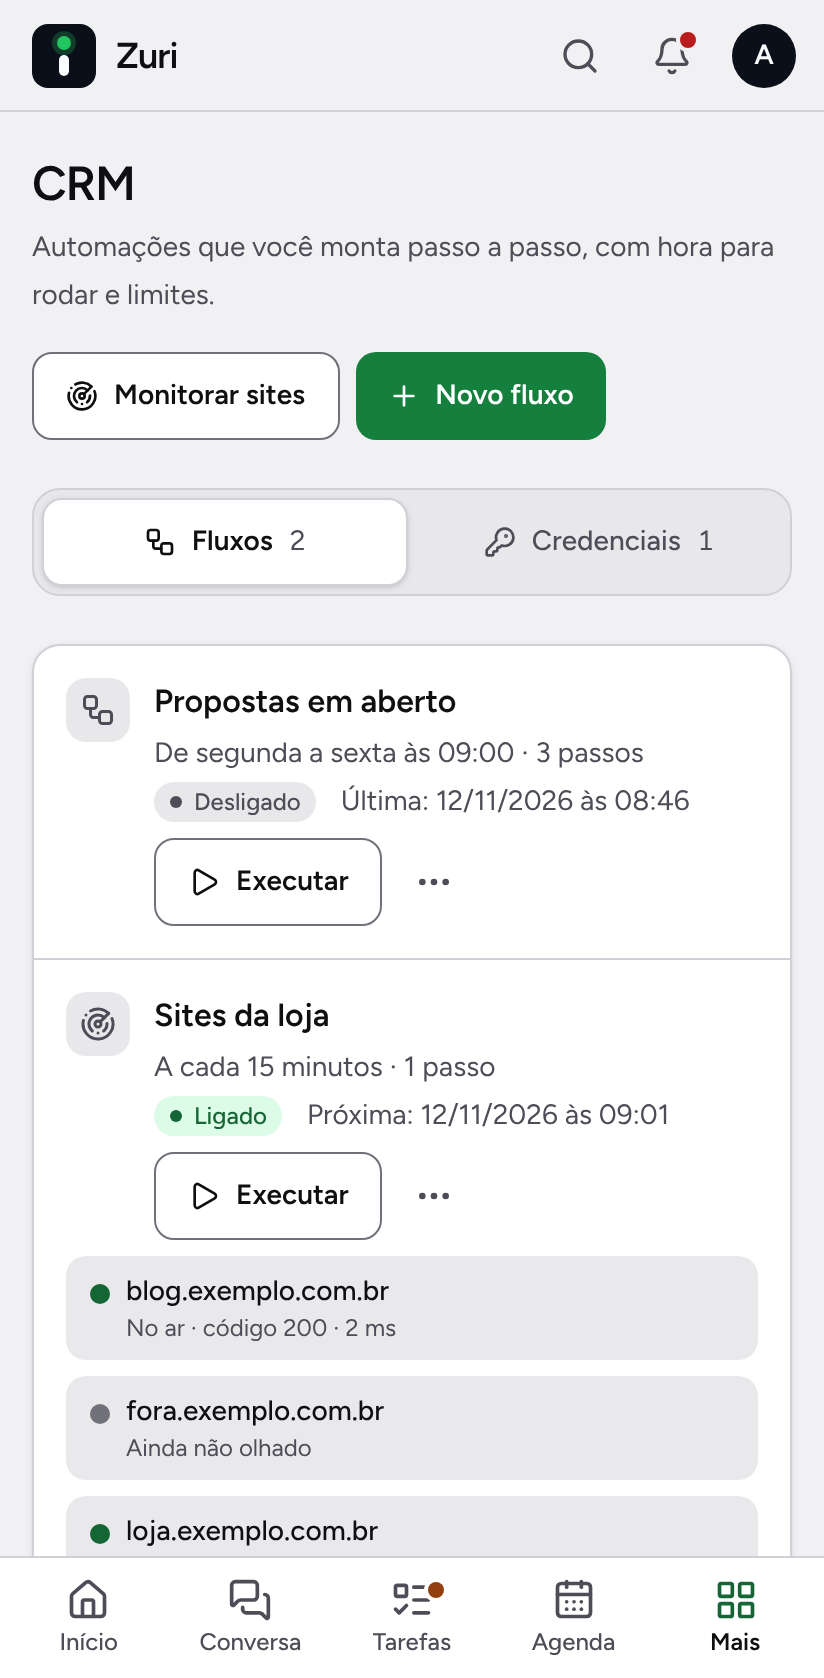
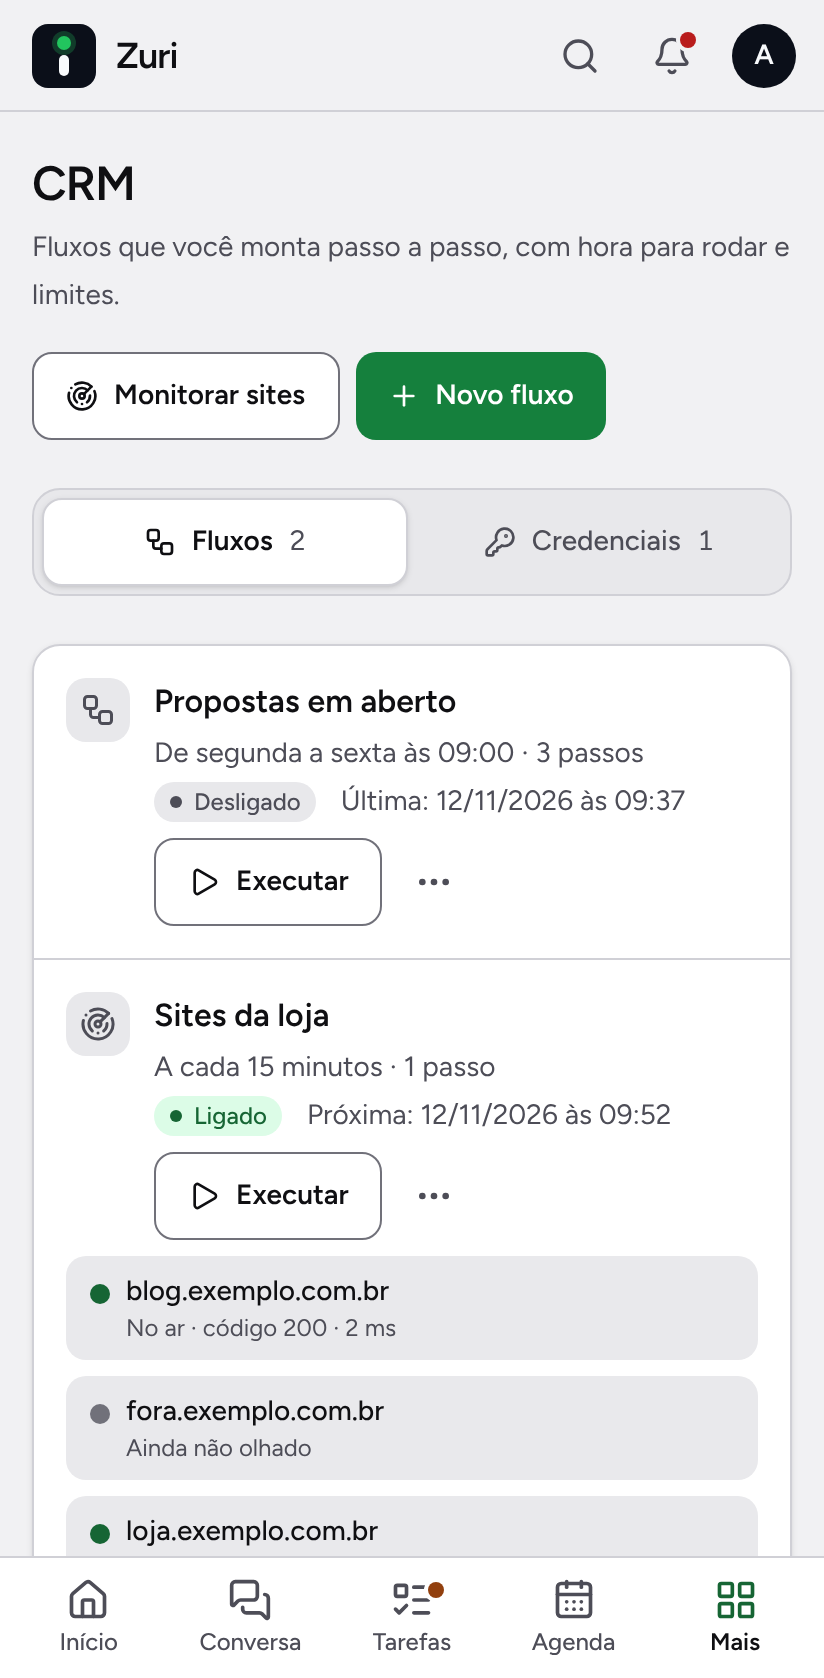
fix(web): achados da revisão de QA da S15
Criar fluxo pela paleta, a partir de Credenciais, leva a Fluxos antes de
abrir o editor. O grupo CRM em Avisos mantém o nome quando não carrega.
Testes novos para as últimas execuções, o nome da cópia no limite de 80
caracteres e a linha de uma credencial no axe.

Claude-Session: https://claude.ai/code/session_012XDDEfvJF19ZPJwZ8qYJbn

Changed region(s): [[0.0303, 0.124, 0.9405, 0.1859], [0.7585, 0.4648, 0.8495, 0.4958], [0.7888, 0.6508, 0.8192, 0.6818]]

diff --git a/tests/e2e/fluxos.spec.ts b/tests/e2e/fluxos.spec.ts
@@ -107,6 +107,7 @@ test("a credential keeps its key on the server; a flow calls it, filters and tel
   await expect(item.getByText("https://api.exemplo.com.br · GET · /v1/clientes")).toBeVisible();
   await expect(item.getByText("Nenhum fluxo usa ainda")).toBeVisible();
   expect(await tooSmallControls(page), "every control of Credenciais is a 44 px target").toEqual([]);
+  await expectAccessible(page, "credenciais com linha");
 
   // Editing shows an empty key field: the value never comes back to the browser.
   await rowAction(item, page, "Editar");
@@ -181,8 +182,8 @@ test("the flows have their own address in the CRM, and the palette opens a new f
   await expect(page).toHaveURL(/\/crm$/);
   await expect(page.getByRole("heading", { level: 1, name: "CRM" })).toBeVisible();
 
-  // From another place and from the flows themselves.
-  for (const from of ["/rotinas", "/crm/fluxos"]) {
+  // From another place, from the flows themselves and from the other part of the CRM, which it leaves for the flows.
+  for (const from of ["/rotinas", "/crm/fluxos", "/crm/credenciais"]) {
     await page.goto(from);
     await expect(page.getByRole("heading", { level: 1 })).toBeVisible();
     await page.keyboard.press("Control+k");
@@ -423,7 +424,10 @@ test("the CRM has two parts, each at its address; the ones still without a serve
   await signIn(page);
   const parts = page.getByRole("navigation", { name: "Partes do CRM" });
   // /crm is the flows; the number beside each name is how many it holds.
-  await expect(parts.getByRole("link")).toHaveText([/^Fluxos\s*\d+$/, /^Credenciais\s*\d+$/]);
+  await expect(parts.getByRole("link")).toHaveCount(2);
+  await expect(parts.getByRole("link").first()).toHaveAccessibleName(/^Fluxos \d+$/);
+  await expect(parts.getByRole("link").last()).toHaveAccessibleName(/^Credenciais \d+$/);
+  await expect(page.getByText("Fluxos que você monta passo a passo, com hora para rodar e limites.")).toBeVisible();
   await expect(parts.getByRole("link", { name: /^Fluxos/ })).toHaveAttribute("aria-current", "page");
   await expect(page.getByRole("button", { name: "Novo fluxo" })).toBeVisible();
   await expect(page.getByRole("button", { name: "Nova credencial" })).toHaveCount(0);
@@ -453,7 +457,10 @@ test("the CRM has two parts, each at its address; the ones still without a serve
 });
 
 test("a duplicated flow starts off, under the original's name marked as a copy (S15)", async ({ page }) => {
-  const name = `Original ${tag()}`;
+  // A name of exactly the 80 characters a flow takes: the copy is cut on the original's side to fit.
+  const name = `Original ${tag()} `.padEnd(80, "x");
+  expect(name).toHaveLength(80);
+  const copyName = `${name.slice(0, 72)} (cópia)`;
   await openFlows(page);
   const definition = { version: 1, trigger: { type: "schedule", schedule: { type: "daily", time: "07:30" } }, nodes: [{ type: "notify", title: "Aviso", body: "", priority: "low", each: false }] };
   const created = await page.request.post("/api/flows", { headers: CSRF, data: { name, definition } });
@@ -463,15 +470,78 @@ test("a duplicated flow starts off, under the original's name marked as a copy (
     await page.reload();
     await rowAction(flowRow(page, name), page, "Duplicar");
     await expect(toast(page, "Fluxo duplicado. Começa desligado.")).toBeVisible();
-    const copy = flowRow(page, `${name} (cópia)`);
+    const copy = flowRow(page, copyName);
     await expect(copy.getByText("Desligado", { exact: true })).toBeVisible();
     await expect(copy.getByText("Todo dia às 07:30 · 1 passo")).toBeVisible();
     await expect(copy.getByText(/^Próxima: /)).toHaveCount(0);
     const list = (await (await page.request.get("/api/flows", { headers: CSRF })).json()) as { flows: { id: string; name: string; enabled: boolean }[] };
-    const saved = list.flows.find((flow) => flow.name === `${name} (cópia)`);
+    const saved = list.flows.find((flow) => flow.name === copyName);
     expect(saved?.enabled).toBe(false);
     if (saved) ids.push(saved.id);
   } finally {
     for (const id of ids) await page.request.delete(`/api/flows/${id}`, { headers: CSRF });
   }
+});
+
+test("the last runs say why one stopped, load older ones, and have their empty and error states (S15, C6)", async ({ page }) => {
+  const run = (id: string, more: Record<string, unknown>) => ({
+    id,
+    flowId: "f1",
+    flowName: `Fluxo ${id}`,
+    trigger: "schedule",
+    status: "success",
+    problem: null,
+    node: null,
+    httpStatus: null,
+    calls: 2,
+    items: 5,
+    startedAt: "2026-11-10T12:00:00.000Z",
+    finishedAt: "2026-11-10T12:00:01.000Z",
+    resumeAt: null,
+    ...more,
+  });
+  let answer: "pages" | "empty" | "error" = "pages";
+  await page.route("**/api/flows/runs*", (route) => {
+    if (answer === "error") return route.fulfill({ status: 500, contentType: "application/json", body: JSON.stringify({ code: "INTERNAL", message: "Algo deu errado." }) });
+    if (answer === "empty") return route.fulfill({ contentType: "application/json", body: JSON.stringify({ runs: [], nextCursor: null }) });
+    const older = new URL(route.request().url()).searchParams.get("before") === "cursor-1";
+    const runs = older
+      ? [run("antigo", {})]
+      : [run("falhou", { status: "error", problem: "http_error", node: 2, httpStatus: 503 }), run("esperando", { status: "waiting", resumeAt: "2026-11-10T18:00:00.000Z" })];
+    return route.fulfill({ contentType: "application/json", body: JSON.stringify({ runs, nextCursor: older ? null : "cursor-1" }) });
+  });
+  await openFlows(page);
+  const history = page.getByRole("region", { name: "Últimas execuções" });
+  // Under the list of flows (or its empty state), never above it.
+  const above = page.getByRole("list", { name: "Seus fluxos" }).or(page.getByText("Nenhum fluxo ainda", { exact: true }));
+  await expect(above).toBeVisible();
+  const order = await above.evaluate((list) => {
+    const runs = document.querySelector("ol.zuri-routine-runs");
+    return runs ? !!(list.compareDocumentPosition(runs) & Node.DOCUMENT_POSITION_FOLLOWING) : null;
+  });
+  expect(order).toBe(true);
+  const failed = history.getByRole("listitem").filter({ hasText: "Fluxo falhou" });
+  await expect(failed.getByText("Com erro", { exact: true })).toBeVisible();
+  await expect(failed.getByText(/^Passo 2 · .+ · código 503$/)).toBeVisible();
+  const waiting = history.getByRole("listitem").filter({ hasText: "Fluxo esperando" });
+  await expect(waiting.getByText(/^Continua em /)).toBeVisible();
+  await expect(waiting.getByText("2 chamadas · 5 itens", { exact: false })).toBeVisible();
+  await expectAccessible(page, "ultimas execucoes");
+  // Older ones come at the owner's request, after the ones in view.
+  await expect(history.getByRole("listitem")).toHaveCount(2);
+  await history.getByRole("button", { name: "Carregar mais" }).click();
+  await expect(history.getByRole("listitem")).toHaveText([/Fluxo falhou/, /Fluxo esperando/, /Fluxo antigo/]);
+  await expect(history.getByRole("button", { name: "Carregar mais" })).toHaveCount(0);
+
+  answer = "empty";
+  await page.reload();
+  await expect(history.getByText("Nenhuma execução ainda.")).toBeVisible();
+  answer = "error";
+  await page.reload();
+  await expect(history.getByRole("alert")).toBeVisible();
+  // The flows above it still load: only the runs failed, and trying again brings them.
+  await expect(page.getByRole("button", { name: "Novo fluxo" })).toBeEnabled();
+  answer = "empty";
+  await history.getByRole("button", { name: "Tentar de novo" }).click();
+  await expect(history.getByText("Nenhuma execução ainda.")).toBeVisible();
 });

diff --git a/apps/web/test/automations.test.ts b/apps/web/test/automations.test.ts
@@ -2,7 +2,7 @@ import { describe, expect, it } from "vitest";
 import type { Schedule } from "@zuri/shared";
 import { createTranslator, type MessageKey, ptBRCore, ptBRSchedule, t } from "../../../packages/shared/i18n/index.ts";
 import { DAY_SHORT } from "../src/pages/automations/labels.ts";
-import { AUTOMATION_LIMITS } from "@zuri/shared";
+import { AUTOMATION_LIMITS, FLOW_LIMITS } from "@zuri/shared";
 import { automationAnchor, copyName, describeSchedule, draftOf, emptyDraft, joinList, scheduleOf, stepReady, suggestName, wizardSteps, zoneLabel } from "../src/lib/automations.ts";
 
 const SP = "America/Sao_Paulo";
@@ -185,6 +185,19 @@ describe("the steps of “Criar rotina”", () => {
     const emoji = copyName(`${"b".repeat(AUTOMATION_LIMITS.name - 9)}💊`, (name) => `${name} (cópia)`);
     expect(emoji).not.toMatch(LONE_HALF);
     expect(emoji).toBe(`${"b".repeat(AUTOMATION_LIMITS.name - 9)} (cópia)`);
+  });
+
+  it("names the copy of a flow within the shorter limit of a flow's name (S15)", () => {
+    const mark = (name: string) => `${name} (cópia)`;
+    // One under the room, exactly the room, one over and a full name: never past the limit.
+    for (const length of [FLOW_LIMITS.name - 9, FLOW_LIMITS.name - 8, FLOW_LIMITS.name - 7, FLOW_LIMITS.name]) {
+      const copy = copyName("f".repeat(length), mark, FLOW_LIMITS.name);
+      expect(copy, String(length)).toHaveLength(Math.min(length + 8, FLOW_LIMITS.name));
+      expect(copy.endsWith(" (cópia)"), String(length)).toBe(true);
+    }
+    expect(copyName(`${"f".repeat(FLOW_LIMITS.name - 9)}💊`, mark, FLOW_LIMITS.name)).not.toMatch(LONE_HALF);
+    // The limit of a routine's name is longer: without the flow's own, the server would refuse the copy.
+    expect(FLOW_LIMITS.name).toBeLessThan(AUTOMATION_LIMITS.name);
   });
 
   it("shows the owner's zone as a city and its distance from UTC", () => {

diff --git a/apps/web/src/pages/crm/CrmPage.tsx b/apps/web/src/pages/crm/CrmPage.tsx
@@ -31,10 +31,11 @@ export function CrmPage() {
   const [connection, setConnection] = useState<ConnectionEditing | null>(null);
   const data = list.data;
   const flowsFull = (data?.counts.flows ?? 0) >= FLOW_LIMITS.flows;
-  // "Criar fluxo" in the palette opens the editor once the list is here: by the address on arrival, by an event after.
+  // "Criar fluxo" in the palette opens the editor once the list is here: by the address on arrival (also
+  // from Credenciais, which it leaves for the flows), by an event when the flows are already open.
   const loaded = data !== undefined;
   useEffect(() => {
-    if (!loaded) return;
+    if (!loaded || part !== "fluxos") return;
     const open = () => setEditing({ mode: "new" });
     if (window.location.hash === `#${NEW_FLOW}`) {
       history.replaceState(history.state, "", window.location.pathname);
@@ -42,7 +43,7 @@ export function CrmPage() {
     }
     window.addEventListener(NEW_FLOW, open);
     return () => window.removeEventListener(NEW_FLOW, open);
-  }, [loaded]);
+  }, [loaded, part]);
 
   return (
     <>
@@ -98,5 +99,6 @@ export function CrmPage() {
 
 /** How many a part holds, beside its name; a number alone reads fine after the name. */
 function Count({ n }: { n: number }) {
-  return <span className="tabular-nums font-normal text-fg-muted">{n}</span>;
+  // The space is for the link's name ("Fluxos 2"); the row's gap already sets them apart on the screen.
+  return <span className="tabular-nums font-normal text-fg-muted"> {n}</span>;
 }

diff --git a/tests/e2e/crm-cartoes.spec.ts b/tests/e2e/crm-cartoes.spec.ts
@@ -77,3 +77,25 @@ test("the CRM has no door for other systems: no events card and no address to po
   const clients = (await (await page.request.get("/api/crm/clients", { headers: CSRF })).json()) as { clients: unknown[] };
   expect(clients.clients).toEqual([]);
 });
+
+test("the CRM group comes after the channels it speaks of, and keeps its name when it fails to load (S15)", async ({ page }) => {
+  await page.goto("/configuracoes/avisos");
+  await signIn(page);
+  const card = page.getByRole("region", { name: "CRM", exact: true });
+  await expect(card.getByText("pelos canais acima", { exact: false })).toBeVisible();
+  // "Acima" holds: the card of what goes to each channel comes before it, the daily summary after.
+  const titles = await page.getByRole("heading", { level: 2 }).allTextContents();
+  const at = titles.indexOf("CRM");
+  expect(at).toBeGreaterThan(0);
+  expect(titles[at - 1]).toBe("O que vai para cada canal");
+  expect(titles[at + 1]).toBe("Resumo do dia");
+
+  let fail = true;
+  await page.route("**/api/crm", (route) => (fail ? route.fulfill({ status: 500, contentType: "application/json", body: JSON.stringify({ code: "INTERNAL", message: "Algo deu errado." }) }) : route.continue()));
+  await page.reload();
+  await expect(card.getByRole("alert")).toBeVisible();
+  await expect(card.getByRole("switch")).toHaveCount(0);
+  fail = false;
+  await card.getByRole("button", { name: "Tentar de novo" }).click();
+  await expect(card.getByRole("switch")).toHaveCount(2);
+});

diff --git a/apps/web/src/pages/settings/CrmNoticesCard.tsx b/apps/web/src/pages/settings/CrmNoticesCard.tsx
@@ -21,8 +21,18 @@ const CRM_KEY = ["crm"] as const;
 export function CrmNoticesCard() {
   const overview = useQuery({ queryKey: [...CRM_KEY, "overview"], queryFn: ({ signal }) => api<CrmOverview>("/crm", { signal }) });
   if (overview.isPending) return <Loading rows={1} />;
-  if (!overview.data) return <ErrorNotice error={overview.error} onRetry={() => void overview.refetch()} />;
+  // The failure keeps the group's name over it: alone in the middle of the tab, it wouldn't say what failed.
+  if (!overview.data) return <ErrorCard error={overview.error} onRetry={() => void overview.refetch()} />;
   return <SettingsCard settings={overview.data.settings} />;
+}
+
+function ErrorCard({ error, onRetry }: { error: unknown; onRetry: () => void }) {
+  const { t } = useI18n();
+  return (
+    <Card title={t("web.crm.settings.title")}>
+      <ErrorNotice error={error} onRetry={onRetry} />
+    </Card>
+  );
 }
 
 /** Saves through the API and refreshes the cards; the error (if any) comes back to the caller. */

diff --git a/apps/web/src/components/CommandPalette.tsx b/apps/web/src/components/CommandPalette.tsx
@@ -135,7 +135,7 @@ export function CommandPalette({
         group: t("web.palette.groupCreate"),
         label: t("web.palette.newFlow"),
         icon: Plus,
-        to: ["/crm", "/crm/fluxos", "/crm/credenciais"].includes(location.pathname) ? location.pathname : `/crm/fluxos#${NEW_FLOW}`,
+        to: ["/crm", "/crm/fluxos"].includes(location.pathname) ? location.pathname : `/crm/fluxos#${NEW_FLOW}`,
         before: () => window.dispatchEvent(new Event(NEW_FLOW)),
       },
       { id: "new-note", group: t("web.palette.groupCreate"), label: t("web.palette.newNote"), icon: FilePlus2, to: "/notas/nova" },

diff --git a/packages/shared/i18n/pt-BR-flows.ts b/packages/shared/i18n/pt-BR-flows.ts
@@ -1,7 +1,7 @@
 // The pt-BR texts of the Flows tab in Automations (step 22a): the flows, their
 // connections and the site monitor. They come with the tab, on demand (rule P11).
 export const ptBRFlows = {
-  "web.flows.description": "Automações que você monta passo a passo, com hora para rodar e limites.",
+  "web.flows.description": "Fluxos que você monta passo a passo, com hora para rodar e limites.",
   "web.flows.loading": "Carregando fluxos…",
   "web.flows.new": "Novo fluxo",
   "web.flows.monitorTemplate": "Monitorar sites",

diff --git a/packages/shared/i18n/en.ts b/packages/shared/i18n/en.ts
@@ -2479,7 +2479,7 @@ export const en: Messages = {
   "web.contacts.emptyAtGoogle": "Empty at Google",
   "web.contacts.readOnly": "Read only, from Google Contacts.",
   "web.contacts.openGoogle": "Open in Google Contacts",
-  "web.flows.description": "Automations you build step by step, with a time to run and limits.",
+  "web.flows.description": "Flows you build step by step, with a time to run and limits.",
   "web.flows.loading": "Loading flows…",
   "web.flows.new": "New flow",
   "web.flows.monitorTemplate": "Monitor sites",

diff --git a/docs/planos/implementacao-frontend-sinal.md b/docs/planos/implementacao-frontend-sinal.md
@@ -403,6 +403,8 @@ Diferenças da S15 (CRM) para o protótipo e para as tabelas, para as PRs seguin
 - **"Ver credenciais" é um botão ao lado da nota dos passos**, não uma palavra dentro da frase: um link no meio do texto não chega a 44 px de altura. A lista de passos da nota sai do catálogo de passos, então passo novo aparece sozinho.
 - **O menu lateral não abre as partes do CRM embaixo do item.** O protótipo mostra; o JS inicial está a 142 B do teto e a casca entra nele. Fica para quando houver quatro partes, com a medida na mão.
 - **Aviso de retorno ou aniversário continua abrindo `/crm`** (hoje, Fluxos). Não existe tela de clientes; trocar o destino é mudança de servidor.
+- **A frase do alto de Fluxos diz "Fluxos que você monta passo a passo"**, não "Automações que você monta": pelo glossário, "Automação" fica para as do CRM, que chegam na parte vizinha (S18).
+- **"Criar fluxo" pela paleta, a partir de Credenciais, leva a Fluxos** antes de abrir o editor: o fluxo salvo aparece na lista que está na tela.
 - **Textos:** "conexão" virou "credencial" e o valor secreto virou "chave", na tela, nos erros do servidor, nos avisos de segurança e na atividade de acesso. Os nomes internos (`FlowConnection`, `/api/flows/connections`) não mudaram.
 
 Diferenças da S13 (servidor do consumo), para a S16 não as desfazer:

diff --git a/docs/backup.md b/docs/backup.md
@@ -110,7 +110,7 @@ O código do formato está em `packages/shared/src/backup-file.ts`.
 
 Nunca vão: senha, segredo do 2FA, códigos de recuperação, passkeys, sessões,
 aparelhos, vínculo e estado do Telegram, servidores MCP
-e suas credenciais, conexão Google e credenciais dos fluxos, fluxos e conexões,
+e suas credenciais, conexão Google, fluxos e as credenciais deles,
 contatos e avaliações do Google, fila de eventos do CRM, avisos, uso da IA,
 atividade, diagnóstico, chaves dos modelos pagos nem os valores internos que o
 servidor guarda para si. A lista do que vai é fechada no código
